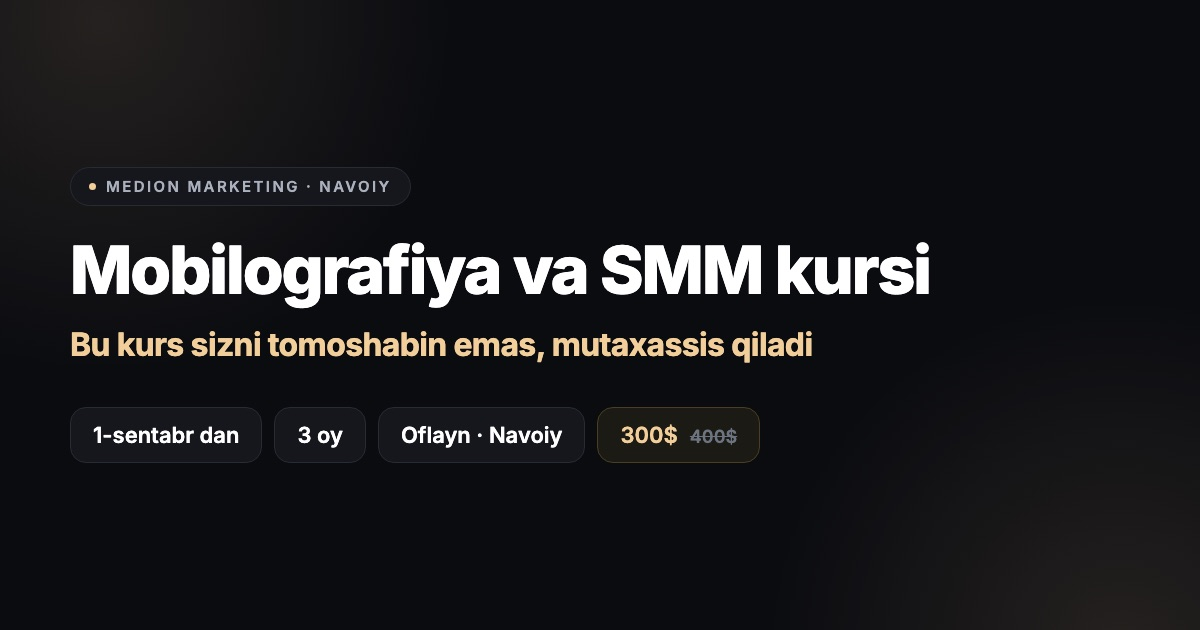
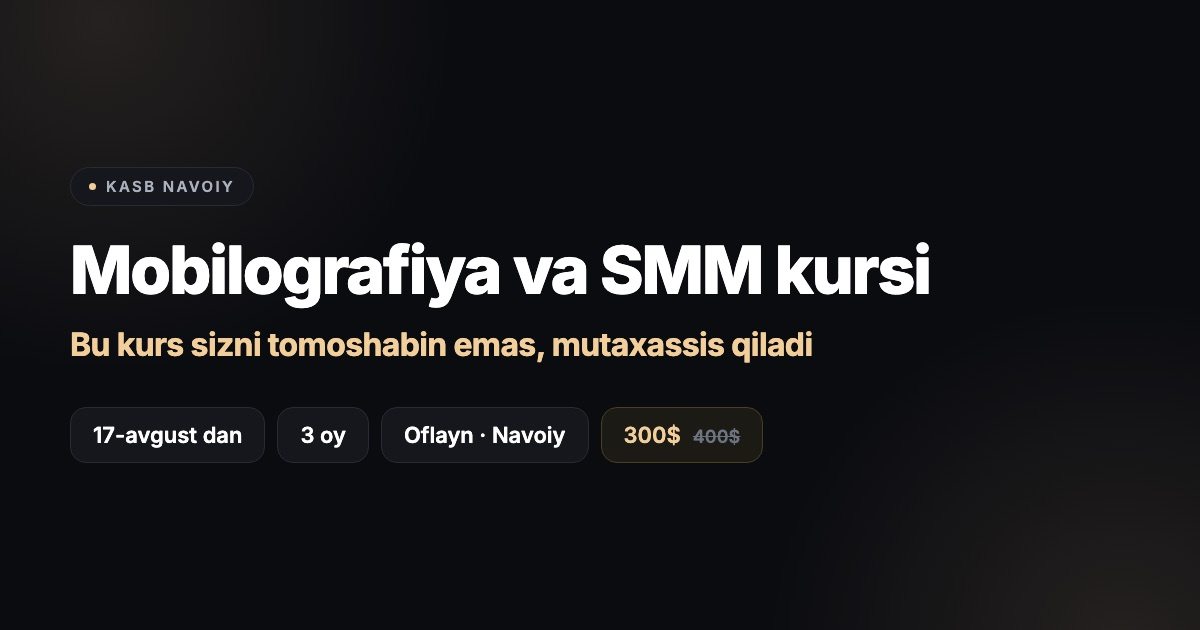
17-avgust, 50 joy, Kasb Navoiy brendi, ustoz rasmlari va sahna fonlari

diff --git a/index.html b/index.html
@@ -5,15 +5,15 @@
 <meta name="viewport" content="width=device-width, initial-scale=1, viewport-fit=cover">
 <meta name="theme-color" content="#0B0C10">
 
-<title>Mobilografiya va SMM kursi — Navoiy · Medion Marketing</title>
+<title>Mobilografiya va SMM kursi — Kasb Navoiy</title>
 <meta name="description" content="3 oyda telefoningiz bilan pul topadigan kasbni o'rganing. Real mijozlar, portfolio va birinchi daromad. Navoiyda oflayn.">
 
 <!-- DIQQAT: domen o'zgarsa, quyidagi 2 ta to'liq havolani ham yangilang. -->
 <meta property="og:type" content="website">
-<meta property="og:site_name" content="Medion Marketing">
+<meta property="og:site_name" content="Kasb Navoiy">
 <meta property="og:locale" content="uz_UZ">
 <meta property="og:url" content="https://kasb-shahriyor-shomamatov.vercel.app/">
-<meta property="og:title" content="Mobilografiya va SMM kursi — Navoiy">
+<meta property="og:title" content="Mobilografiya va SMM kursi — Kasb Navoiy">
 <meta property="og:description" content="3 oy. Real mijozlar, portfolio va birinchi daromad. Bu kurs sizni tomoshabin emas, mutaxassis qiladi.">
 <meta property="og:image" content="https://kasb-shahriyor-shomamatov.vercel.app/images/og.jpg">
 <meta property="og:image:width" content="1200">
@@ -77,7 +77,7 @@ tailwind.config = {
       <div>
         <div class="inline-flex items-center gap-2 rounded-full border border-line bg-card px-3 py-1.5">
           <span class="w-1.5 h-1.5 rounded-full bg-gold"></span>
-          <span class="text-[11px] font-semibold tracking-[0.14em] text-muted uppercase">Medion Marketing · Navoiy</span>
+          <span class="text-[11px] font-semibold tracking-[0.14em] text-muted uppercase">Kasb Navoiy</span>
         </div>
 
         <h1 class="mt-6 text-[34px] leading-[1.08] sm:text-5xl lg:text-[54px] font-extrabold">
@@ -387,7 +387,7 @@ tailwind.config = {
 <section class="bg-bg2 border-y border-line/60">
   <div class="max-w-4xl mx-auto px-5 py-14 md:py-20">
     <h2 class="reveal text-3xl sm:text-4xl font-extrabold text-center leading-tight">
-      <span class="text-gold">6 nafar o'quvchi</span> Medion Marketing jamoasiga taklif qilinadi
+      <span class="text-gold">6 nafar o'quvchi</span> Kasb Navoiy jamoasiga taklif qilinadi
     </h2>
     <p class="reveal mt-4 text-center text-[15px] text-muted max-w-2xl mx-auto leading-relaxed">
       Bizning maqsadimiz faqat dars o'tish emas. Eng kuchli o'quvchilarni o'z jamoamizga
@@ -418,7 +418,7 @@ tailwind.config = {
 <section class="glow relative overflow-hidden">
   <div class="relative z-10 max-w-6xl mx-auto px-5 py-14 md:py-20">
     <h2 class="reveal text-3xl sm:text-4xl font-extrabold text-center leading-tight">
-      Sizga <span class="text-gold">amaliyotchilar</span> o'rgatadi
+      Sizga <span class="text-gold">mutaxassislar</span> o'rgatadi
     </h2>
     <p class="reveal mt-3 text-center text-muted text-[15px]">Har biri o'z natijasini raqamda ko'rsata oladi.</p>
 
@@ -512,7 +512,7 @@ tailwind.config = {
 <footer class="border-t border-line/60">
   <div class="max-w-6xl mx-auto px-5 py-10 flex flex-col sm:flex-row items-center justify-between gap-5">
     <div class="text-center sm:text-left">
-      <div class="font-bold">Medion Marketing</div>
+      <div class="font-bold">Kasb Navoiy</div>
       <div class="text-[13px] text-dim mt-0.5">Navoiy</div>
     </div>
     <div class="flex items-center gap-2.5">
@@ -550,6 +550,7 @@ tailwind.config = {
   document.querySelectorAll('[data-cfg]').forEach(function (el) {
     var v = C[el.getAttribute('data-cfg')];
     if (v) el.textContent = v;
+    else el.classList.add('hidden');   // qiymat bo'sh bo'lsa — butunlay yashiramiz
   });
   document.getElementById('f-tg').href  = C.TELEGRAM_KANAL;
   document.getElementById('f-ig').href  = C.INSTAGRAM;
@@ -594,8 +595,19 @@ tailwind.config = {
   if (C.USTOZLAR.length === 2) uBox.classList.add('max-w-3xl');
 
   uBox.innerHTML = C.USTOZLAR.map(function (s) {
+    /* Sahna surati — kartaning orqa fonida, juda xira.
+       Ustidan qorayuvchi qatlam tushadi, shuning uchun matn o'qilaveradi. */
+    var fon = s.fon
+      ? '<div class="absolute inset-0 bg-cover opacity-[0.30]" ' +
+             'style="background-image:url(' + s.fon + ');background-position:center 18%"></div>' +
+        '<div class="absolute inset-0" ' +
+             'style="background:linear-gradient(180deg,rgba(11,12,16,.35) 0%,rgba(21,23,29,.80) 42%,rgba(21,23,29,.97) 68%,#15171D 100%)"></div>'
+      : '';
+
     return '' +
-    '<div class="reveal rounded-2xl border border-line bg-card p-6 text-center">' +
+    '<div class="reveal relative overflow-hidden rounded-2xl border border-line bg-card p-6 text-center">' +
+      fon +
+      '<div class="relative">' +
       '<div class="mx-auto w-24 h-24 rounded-full p-[2px] bg-gold">' +
         '<div class="relative w-full h-full rounded-full bg-bg2 overflow-hidden">' +
           '<span class="absolute inset-0 grid place-items-center text-2xl font-extrabold text-gold">' +
@@ -612,6 +624,7 @@ tailwind.config = {
             '<span>' + n + '</span></li>';
         }).join('') +
       '</ul>' +
+      '</div>' +
     '</div>';
   }).join('');
 

diff --git a/config.js b/config.js
@@ -7,18 +7,18 @@
 
 window.CONFIG = {
   /* ── Kurs haqida ────────────────────────────────────────── */
-  BOSHLANISH:  "1-sentabr",              // [ ] guruh qachon boshlanadi
+  BOSHLANISH:  "17-avgust",
   DAVOMIYLIK:  "3 oy",                   // 2 oy nazariy + 1 oy amaliy
   FORMAT:      "Oflayn · Navoiy",
   MANZIL:      "Navoiy shahri",          // [ ] aniq manzil
-  DARS_JADVALI: "Haftasiga 3 kun",       // [ ] qaysi kunlar, soat nechada
-  JOYLAR_SONI: "20",                     // [ ] guruhda nechta joy
+  DARS_JADVALI: "Haftasiga 3 kun",
+  JOYLAR_SONI: "50",
 
   /* ── Narx ───────────────────────────────────────────────── */
   NARX_ESKI:   "400$",                   // chizilgan holda ko'rinadi
   NARX:        "300$",
   NARX_IZOH:   "Guruh to'lgach qabul yopiladi",
-  TOLOV:       "To'liq yoki bo'lib to'lash mumkin",  // [ ] o'zingizga moslang
+  TOLOV:       "",                       // bo'sh qoldirilsa — saytda ko'rinmaydi
 
   /* ── Aloqa ──────────────────────────────────────────────── */
   TELEGRAM_KANAL: "https://t.me/Kasb_Navoiy",
@@ -53,13 +53,14 @@ window.CONFIG = {
   ],
 
   /* ── Ustozlar ───────────────────────────────────────────────
-     Rasmlarni /images/ustozlar/ papkasiga tashlang, keyin
-     RASM-TAYYORLASH.command ni bosing.                          */
+     rasm — dumaloq avatar (/images/ustozlar/)
+     fon  — kartaning orqa fonidagi sahna surati (/images/fon/)   */
   USTOZLAR: [
     {
       ism:    "Shahriyor Shomamatov",
       unvon:  "SMM va shaxsiy brend · Navoiy",
       rasm:   "images/ustozlar/shahriyor.jpg",
+      fon:    "images/fon/shahriyor.jpg",
       natija: [
         "119 ming obunachi — taksist_artist loyihasi",
         "To'xtasin Odilov: 2 oyda 100+ o'quvchi",
@@ -70,6 +71,7 @@ window.CONFIG = {
       ism:    "Mamadaminov Amiriddin",
       unvon:  "Mobilograf · ustoz · Navoiy",
       rasm:   "images/ustozlar/amiriddin.jpg",
+      fon:    "images/fon/amiriddin.jpg",
       natija: [
         "Sohada 5 yillik yo'l — noldan boshlagan",
         "2023-yildan buyon o'z kursini o'qitadi",
@@ -100,7 +102,7 @@ window.CONFIG = {
     ["To'lovni bo'lib to'lasa bo'ladimi?",
      "Ha, bo'lib to'lash mumkin. Shartlarni qo'ng'iroq paytida kelishamiz."],
     ["Kursdan keyin ish topa olamanmi?",
-     "Kurs oxirida portfolio va real loyiha tajribasi bo'ladi. Eng kuchli 6 nafar o'quvchi Medion Marketing jamoasiga taklif qilinadi."],
+     "Kurs oxirida portfolio va real loyiha tajribasi bo'ladi. Eng kuchli 6 nafar o'quvchi Kasb Navoiy jamoasiga taklif qilinadi."],
     ["Sertifikat berasizmi?",
      "Ha. Yakunda imtihon bo'ladi va sertifikat beriladi."]
   ]

diff --git a/rahmat.html b/rahmat.html
@@ -10,7 +10,7 @@
 <meta name="description" content="Kursga ro'yxatdan o'tdingiz. Tez orada siz bilan bog'lanamiz.">
 
 <meta property="og:type" content="website">
-<meta property="og:site_name" content="Medion Marketing">
+<meta property="og:site_name" content="Kasb Navoiy">
 <meta property="og:locale" content="uz_UZ">
 <meta property="og:title" content="Arizangiz qabul qilindi">
 <meta property="og:description" content="Mobilografiya va SMM kursiga ro'yxatdan o'tdingiz.">
@@ -137,7 +137,7 @@ tailwind.config = {
   </div>
 
   <div class="mt-12 text-center text-[13px] text-dim">
-    <div class="font-semibold text-muted">Medion Marketing · Navoiy</div>
+    <div class="font-semibold text-muted">Kasb Navoiy</div>
     <a id="f-tel" href="#" class="inline-block mt-2 hover:text-gold transition-colors" data-cfg="TELEFON_RAQAM"></a>
   </div>
 
@@ -151,6 +151,7 @@ tailwind.config = {
   document.querySelectorAll('[data-cfg]').forEach(function (el) {
     var v = C[el.getAttribute('data-cfg')];
     if (v) el.textContent = v;
+    else el.classList.add('hidden');   // qiymat bo'sh bo'lsa — butunlay yashiramiz
   });
   document.getElementById('btn-tg').href = C.TELEGRAM_KANAL;
   document.getElementById('btn-ig').href = C.INSTAGRAM;

diff --git a/images/og-manba.html b/images/og-manba.html
@@ -43,7 +43,7 @@
 </head>
 <body>
   <div class="in">
-    <div class="badge"><span class="dot"></span>Medion Marketing · Navoiy</div>
+    <div class="badge"><span class="dot"></span>Kasb Navoiy</div>
     <h1>Mobilografiya va SMM kursi</h1>
     <div class="sub">Bu kurs sizni tomoshabin emas, mutaxassis qiladi</div>
     <div class="row">
